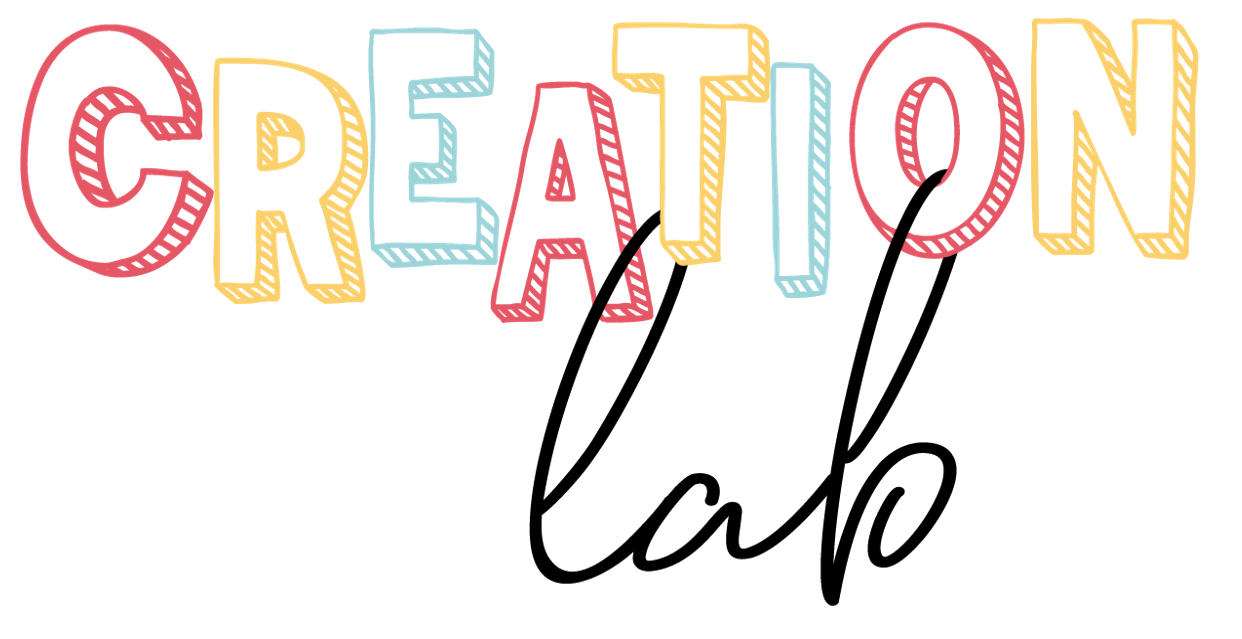
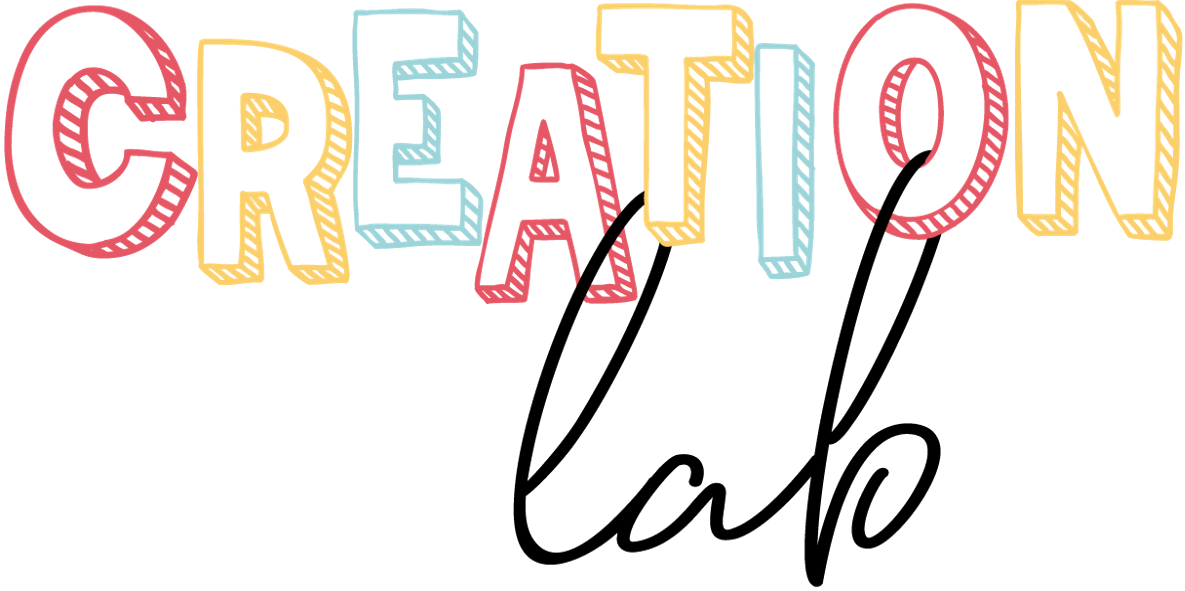
styling change like all the time

Changed region(s): [[0.0, 0.0, 0.9992, 1.0]]

diff --git a/public/css/style.css b/public/css/style.css
@@ -16,12 +16,8 @@ body {
 }
 
 .logo {
-    width: 100%;
+   width: 100%;
 }
-.logo-creation_lab {
-    object-fit: contain;
-}
-
 .red_line-nav {
    background-color: #e8606b;
    height: 10px;

diff --git a/public/new_project.php b/public/new_project.php
@@ -10,42 +10,47 @@ if ($_SESSION['connected'] != 1) {
 <html lang="fr">
 
 <head>
-  <meta charset="UTF-8">
-  <meta name="viewport" content="width=device-width, initial-scale=1.0">
-  <meta http-equiv="X-UA-Compatible" content="ie=edge">
-  <link rel="icon" href="image/favicon.ico" />
-  <link rel="stylesheet" href="css/bootstrap.min.css">
-  <link rel="stylesheet" href="css/style.css">
-  <title>Creation Lab</title>
+    <meta charset="UTF-8">
+    <meta name="viewport" content="width=device-width, initial-scale=1.0">
+    <meta http-equiv="X-UA-Compatible" content="ie=edge">
+    <link rel="icon" href="image/favicon.ico" />
+    <link rel="stylesheet" href="css/bootstrap.min.css">
+    <link rel="stylesheet" href="css/style.css">
+    <title>Creation Lab</title>
 </head>
 
 <body>
-  <nav class="navbar">
-    <span class="logo" style="left:-187px;"><a href="index.php"><img src="image/Creation_Lab.png" alt="logo_creationLab" width="298"
-                                                                     height="142"></a></span>
-          <span><a href="../deco.php"><button type="button" class="btn btn-light">Déconnexion</button></a></span>
-  </nav>
+<nav class="navbar">
+    <div class="logo row">
+        <div class="red_line-nav col"></div>
+        <div class="col"><a href="index.php" style="grid-column: 1"><img src="image/Creation_Lab.png" class="logo-creation_lab" alt="logo_creationLab" width="350" height="180" ></a></div>
+        <div class="red_line-nav col"></div>
+    </div>
+    <div class="button">
+        <a href="../deco.php"><button type="button" class="btn btn-light">Déconnexion</button></a>
+    </div>
+</nav>
 <?php include '../includes/menu.php';?>
 <div class="main">
-  <div class="container" id="form_text">
-      <form action="../add_post.php" method="post">
-        <div class="form-group">
-          <label for="title">Titre :</label>
-          <input type="text" class="form-control" id="title_post" name="title_post" placeholder="Entrez un titre" spellcheck="true" />
-       </div>
-       <div class="form-group">
-         <label for="description">Description :</label>
-          <textarea class="form-control" id="desc_post" name="desc_post" placeholder="Entrez une description" spellcheck="true" maxlength='280'></textarea>
-      </div>
-      <div class="form-group">
-        <label for="contenue">Ecrivez votre histoire :</label>
-        <textarea class="form-control" name="content" id="content" rows="20" spellcheck="true" role="textbox"></textarea>
-      </div>
-        <button type="submit" class="btn btn-primary">Envoyer</button>
-      </form>
-  </div>
+    <div class="container" id="form_text">
+        <form action="../add_post.php" method="post">
+            <div class="form-group">
+                <label for="title">Titre :</label>
+                <input type="text" class="form-control" id="title_post" name="title_post" placeholder="Entrez un titre" spellcheck="true" />
+            </div>
+            <div class="form-group">
+                <label for="description">Description :</label>
+                <textarea class="form-control" id="desc_post" name="desc_post" placeholder="Entrez une description" spellcheck="true" maxlength='280'></textarea>
+            </div>
+            <div class="form-group">
+                <label for="contenue">Ecrivez votre histoire :</label>
+                <textarea class="form-control" name="content" id="content" rows="20" spellcheck="true" role="textbox"></textarea>
+            </div>
+            <button type="submit" class="btn btn-primary">Envoyer</button>
+        </form>
+    </div>
 
-  <?php include '../includes/footer.php';?>
+    <?php include '../includes/footer.php';?>
     <script src="https://kit.fontawesome.com/f6b4bd03ce.js" crossorigin="anonymous"></script>
 </body>
 </html>

diff --git a/public/index.php b/public/index.php
@@ -2,12 +2,12 @@
 include '../database/db.php';
 session_start();
 if(isset($_SESSION['connected'])) {
-   if ($_SESSION['connected'] == 1) {
-      header("Location:autre.php");
-      exit;
-   } else {
-      $_SESSION['connected'] = 0;
-   }
+    if ($_SESSION['connected'] == 1) {
+        header("Location:autre.php");
+        exit;
+    } else {
+        $_SESSION['connected'] = 0;
+    }
 }
 $get_post = $db->prepare('SELECT author,date_post,post_id,contenue,post_name FROM post_text LIMIT 10');
 $get_post->execute();
@@ -17,27 +17,32 @@ $post = $get_post->fetchAll();
 <html lang="fr">
 
 <head>
-  <meta charset="UTF-8">
-  <meta name="viewport" content="width=device-width, initial-scale=1.0">
-  <meta http-equiv="X-UA-Compatible" content="ie=edge">
-  <link rel="icon" href="image/favicon.ico" />
-  <link rel="stylesheet" href="css/bootstrap.min.css">
-  <link rel="stylesheet" href="css/style.css">
-  <title>Creation Lab</title>
+    <meta charset="UTF-8">
+    <meta name="viewport" content="width=device-width, initial-scale=1.0">
+    <meta http-equiv="X-UA-Compatible" content="ie=edge">
+    <link rel="icon" href="image/favicon.ico"/>
+    <link rel="stylesheet" href="css/bootstrap.min.css">
+    <link rel="stylesheet" href="css/style.css">
+    <title>Creation Lab</title>
 </head>
 
 <body>
-  <nav class="navbar">
-    <button type="button" class="btn btn-light m-1"><a href="inscription.php">Inscription</a></button>
-    <button type="button" class="btn btn-light m-1"><a href="connexion.php">Connexion</a></button>
-    <span class="logo"><a href="index.php"><img src="image/Creation_Lab.png" alt="logo_creationLab" width="149"
-                                                height="71"></a></span>
-  </nav>
+<nav class="navbar">
+    <div class="logo row">
+        <div class="red_line-nav col"></div>
+        <div class="col"><a href="index.php" style="grid-column: 1"><img src="image/Creation_Lab.png" class="logo-creation_lab" alt="logo_creationLab" width="350" height="180" ></a></div>
+        <div class="red_line-nav col"></div>
+    </div>
+    <div class="button">
+        <button type="button" class="btn btn-light m-1"><a href="inscription.php">Inscription</a></button>
+        <button type="button" class="btn btn-light m-1"><a href="connexion.php">Connexion</a></button>
+    </div>
+</nav>
 <?php
 for ($i = count($post) - 1; $i >= 0; $i--) {
-   include('../includes/data_not_connected.php');
+    include('../includes/data_not_connected.php');
 }?>
 <?php include '../includes/footer.php';?>
-  <script src="https://kit.fontawesome.com/f6b4bd03ce.js" crossorigin="anonymous"></script>
+<script src="https://kit.fontawesome.com/f6b4bd03ce.js" crossorigin="anonymous"></script>
 </body>
 </html>

diff --git a/public/project.php b/public/project.php
@@ -3,7 +3,7 @@ require '../database/db.php';
 
 session_start();
 if ($_SESSION['connected'] != 1) {
-   header('Location:index.php');
+    header('Location:index.php');
 }
 ?>
 <!DOCTYPE html>
@@ -21,10 +21,15 @@ if ($_SESSION['connected'] != 1) {
 
 <body>
 <nav class="navbar">
-	<span><button type="button" class="btn btn-light"><a href="new_project.php">Créer un nouveau projet</a></button></span>
-    <span class="logo"><a href="../index.php"><img src="image/Creation_Lab.png" alt="logo_creationLab" width="149"
-                                                   height="71"></a></span>
-    <span><a href="../deco.php"><button type="button" class="btn btn-light">Déconnexion</button></a></span>
+    <div class="logo row">
+        <div class="red_line-nav col"></div>
+        <div class="col"><a href="index.php" style="grid-column: 1"><img src="image/Creation_Lab.png" class="logo-creation_lab" alt="logo_creationLab" width="350" height="180" ></a></div>
+        <div class="red_line-nav col"></div>
+    </div>
+    <div class="button">
+        <button type="button" class="btn btn-light"><a href="new_project.php">Créer un nouveau projet</a></button>
+        <a href="../deco.php"><button type="button" class="btn btn-light">Déconnexion</button></a>
+    </div>
 </nav>
 <?php include '../includes/menu.php';?>
 <?php
@@ -36,7 +41,7 @@ $post = $get_post->fetchAll();
 </div>
 <h1>Voici vos projets</h1>
 <?php for ($i = count($post) - 1; $i >= 0; $i--) {
-include '../includes/data_connected.php';
+    include '../includes/data_connected.php';
 }?>
 <?php include '../includes/footer.php';?>
 <script src="https://kit.fontawesome.com/f6b4bd03ce.js" crossorigin="anonymous"></script>

diff --git a/public/user_project.php b/public/user_project.php
@@ -3,7 +3,7 @@ require '../database/db.php';
 
 session_start();
 if ($_SESSION['connected'] != 1) {
-   header('Location:index.php');
+    header('Location:index.php');
 }
 ?>
 <!DOCTYPE html>
@@ -21,9 +21,15 @@ if ($_SESSION['connected'] != 1) {
 
 <body>
 <nav class="navbar">
-    <span><button type="button" class="btn btn-light"><a href="new_project.php">Créer un nouveau projet</a></button></span>
-    <span class="logo"><a href="index.php"><img src="image/Creation_Lab.png" alt="logo_creationLab" width="298" height="142"></a></span>
-    <span><a href="../deco.php"><button type="button" class="btn btn-light">Déconnexion</button></a></span>
+    <div class="logo row">
+        <div class="red_line-nav col"></div>
+        <div class="col"><a href="index.php" style="grid-column: 1"><img src="image/Creation_Lab.png" class="logo-creation_lab" alt="logo_creationLab" width="350" height="180" ></a></div>
+        <div class="red_line-nav col"></div>
+    </div>
+    <div class="button">
+        <button type="button" class="btn btn-light"><a href="new_project.php">Créer un nouveau projet</a></button>
+        <a href="../deco.php"><button type="button" class="btn btn-light">Déconnexion</button></a>
+    </div>
 </nav>
 <?php include '../includes/menu.php';?>
 <?php
@@ -35,7 +41,7 @@ $post = $get_post->fetchAll();
 </div>
 <h1>Voici vos projets</h1>
 <?php for ($i = count($post) - 1; $i >= 0; $i--) {
-include 'includes/data_connected.php';
+    include 'includes/data_connected.php';
 }?>
 <?php include '../includes/footer.php';?>
 <script src="https://kit.fontawesome.com/f6b4bd03ce.js" crossorigin="anonymous"></script>

diff --git a/includes/data_not_connected.php b/includes/data_not_connected.php
@@ -10,13 +10,13 @@ $downvote_nb = $get_downvote->fetch();
 ?>
 <div class="container row post mt-3 mb-3">
     <div class="corps">
-        <div class="info">
-            <div class="vote">
+        <div class="info" style="justify-content: space-between">
+            <div class="vote ">
                 <a href="connexion.php"><button type="button" class="btn btn-light upvote"><img src="image/arrow_up.svg" alt="upvote"></button></a>
                 <div class="numberVote"><?= $upvote_nb[0] - $downvote_nb[0] ?></div>
                 <a href="connexion.php"><button type="button" class="btn btn-light downvote"><img src="image/arrow_down.svg" alt="downvote"></button></a>
             </div>
-            <?= "Crée par " . $post[$i]['author'] . " le " . $post[$i]['date_post']; ?>
+            <div class="mr-3"><?= "Crée par " . $post[$i]['author'] . " le " . $post[$i]['date_post']; ?></div>
         </div>
         <div class="title">
             <h1><?= $post[$i]['post_name'] ?></h1>

diff --git a/public/suite.php b/public/suite.php
@@ -28,9 +28,15 @@ $_SESSION['post_id'] = $post_id;
 
 <body>
   <nav class="navbar">
-    <span class="logo" style="left:-187px;"><a href="index.php"><img src="image/Creation_Lab.png" alt="logo_creationLab" width="298"
-                                                height="142"></a></span>
-          <span><a href="../deco.php"><button type="button" class="btn btn-light">Déconnexion</button></a></span>
+      <div class="logo row">
+          <div class="red_line-nav col"></div>
+          <div class="col"><a href="index.php" style="grid-column: 1"><img src="image/Creation_Lab.png" class="logo-creation_lab" alt="logo_creationLab" width="350" height="180" ></a></div>
+          <div class="red_line-nav col"></div>
+      </div>
+
+      <div class="button">
+          <a href="../deco.php"><button type="button" class="btn btn-light">Déconnexion</button></a>
+          </div>
   </nav>
 <?php include '../includes/menu.php';?>
 

diff --git a/public/connexion.php b/public/connexion.php
@@ -13,7 +13,11 @@
 
 <body>
     <nav class="navbar">
-        <span class="logo"><a href="index.php"><img src="image/Creation_Lab.png" alt="logo_creationLab" width="298" height="142"></a></span>
+        <div class="logo row">
+            <div class="red_line-nav col"></div>
+            <div class="col"><a href="index.php" style="grid-column: 1"><img src="image/Creation_Lab.png" class="logo-creation_lab" alt="logo_creationLab" width="350" height="180" ></a></div>
+            <div class="red_line-nav col"></div>
+        </div>
     </nav>
     <div class="main">
     <form class="inscription mt-3" action="../connexion_confirm.php" method="post">

diff --git a/public/inscription.php b/public/inscription.php
@@ -17,7 +17,11 @@ require "../database/db.php";
 
 <body>
 <nav class="navbar">
-        <span class="logo"><a href="index.php"><img src="image/Creation_Lab.png" alt="logo_creationLab" width="149" height="71"></a></span>
+    <div class="logo row">
+        <div class="red_line-nav col"></div>
+        <div class="col"><a href="index.php" style="grid-column: 1"><img src="image/Creation_Lab.png" class="logo-creation_lab" alt="logo_creationLab" width="350" height="180" ></a></div>
+        <div class="red_line-nav col"></div>
+    </div>
     </nav>
 <div class="main">
     <form class="inscription mt-3" action="../add_users.php" method="post">

diff --git a/includes/data_connected.php b/includes/data_connected.php
@@ -10,7 +10,7 @@ $downvote_nb = $get_downvote->fetch();
 ?>
 <div class="container row post mt-3 mb-3">
     <div class="corps">
-        <div class="info">
+        <div class="info" style="justify-content: space-between">
             <div class="vote">
                 <button type="button" class="btn btn-light upvote" id="<?= $post[$i]['post_id'] ?>" onclick="upvote(this.id)"><img src="image/arrow_up.svg" alt="upvote"></button>
                 <div class="numberVote"><?= $upvote_nb[0] - $downvote_nb[0] ?></div>
